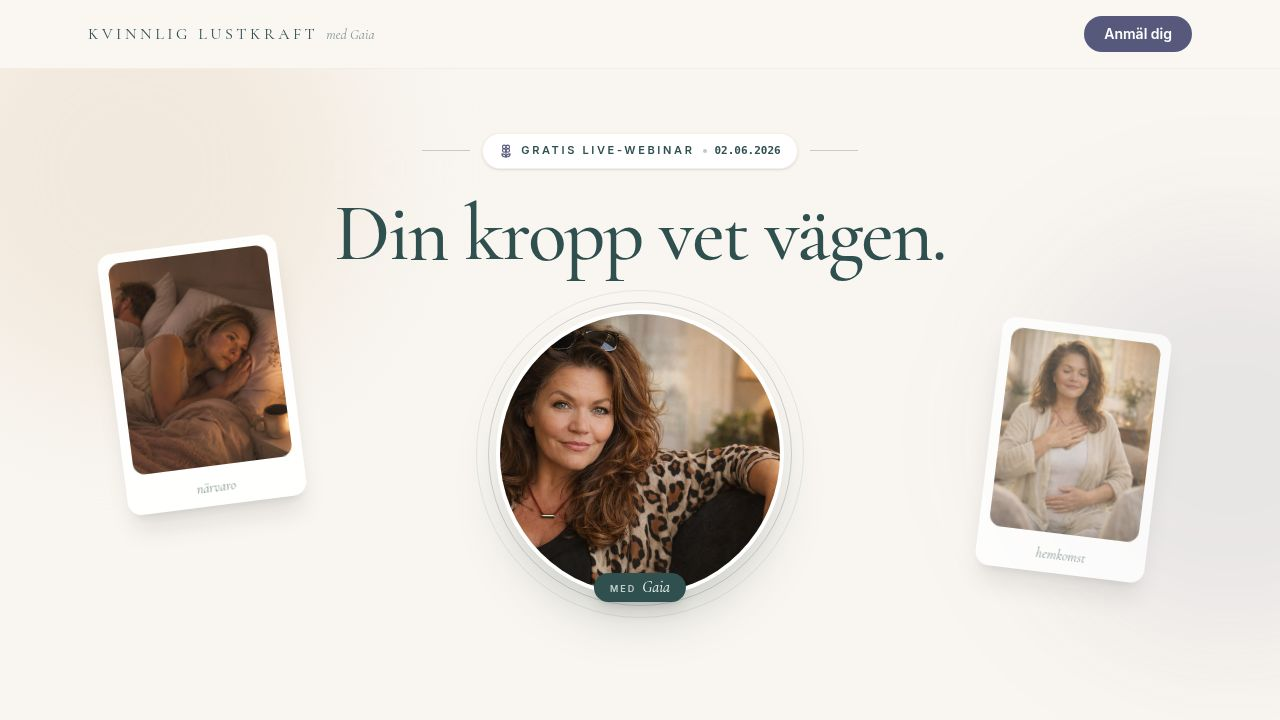
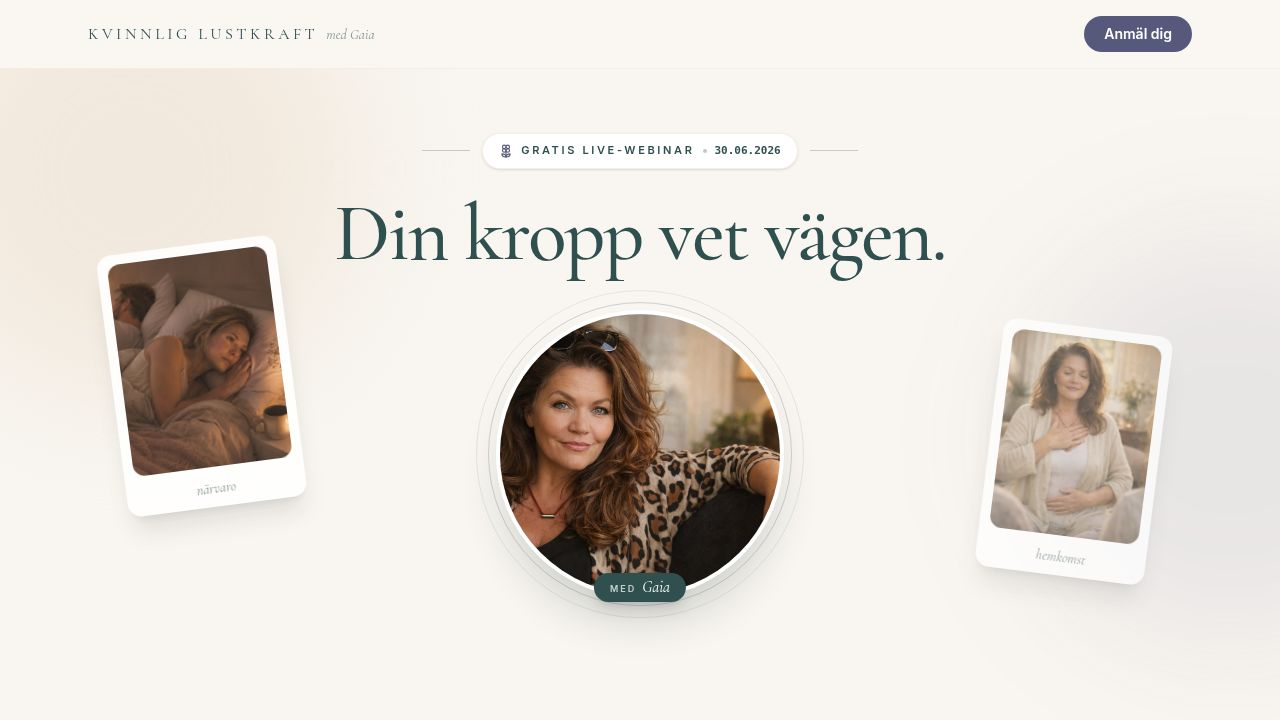
Update webinar schedule to automatically roll over weekly
Implement dynamic date calculations for the webinar schedule, updating invitation emails and email previews to reflect the new automated rollover functionality.

Replit-Commit-Author: Agent
Replit-Commit-Session-Id: 8d92bf58-797e-4079-ab44-be1bf7eed624
Replit-Commit-Checkpoint-Type: full_checkpoint
Replit-Commit-Event-Id: bd925fa5-48f5-4d0c-94e1-175e245414cb
Replit-Commit-Screenshot-Url: https://storage.googleapis.com/screenshot-production-us-central1/c087090e-6721-47c2-9661-25eb5fb39205/8d92bf58-797e-4079-ab44-be1bf7eed624/dVmLftI
Replit-Helium-Checkpoint-Created: true

diff --git a/artifacts/kvinnlig-lustkraft/src/lib/webinar.ts b/artifacts/kvinnlig-lustkraft/src/lib/webinar.ts
@@ -1,5 +1,118 @@
-export const WEBINAR_DATE = "tisdag 23 juni 2026";
-export const WEBINAR_DATE_SHORT = "23.06.2026";
+// ─────────────────────────────────────────────────────────────────────────────
+// Webinar schedule
+//
+// The webinar runs every Tuesday at 18:00 (Europe/Stockholm). The site shows the
+// next upcoming session and AUTOMATICALLY advances one week once the current one
+// has ended — e.g. 30 juni → 7 juli → 14 juli → … — without any code change.
+// The Zoom link stays the same across all sessions.
+//
+// `WEBINAR_FIRST` is the anchor (first session of the current cycle). Everything
+// else (date strings, calendar/ICS links, replay deadline, drip schedule) is
+// derived from the computed start time, so changing the anchor is all it takes.
+// ─────────────────────────────────────────────────────────────────────────────
+
+const STOCKHOLM_TZ = "Europe/Stockholm";
+const WEEK_MS = 7 * 24 * 60 * 60 * 1000;
+const WEBINAR_DURATION_MS = 90 * 60 * 1000; // 18:00 → 19:30
+
+// Anchor: first session of the current cycle (Tuesday). The schedule rolls
+// forward weekly from here.
+const WEBINAR_FIRST = { year: 2026, month: 6, day: 30 }; // 30 juni 2026
+
+const SWEDISH_MONTHS = [
+  "januari", "februari", "mars", "april", "maj", "juni",
+  "juli", "augusti", "september", "oktober", "november", "december",
+];
+
+function pad(n: number): string {
+  return String(n).padStart(2, "0");
+}
+
+// Offset (ms) of Europe/Stockholm at a given instant — handles CEST/CET (DST).
+function stockholmOffsetMs(date: Date): number {
+  const dtf = new Intl.DateTimeFormat("en-US", {
+    timeZone: STOCKHOLM_TZ,
+    year: "numeric", month: "2-digit", day: "2-digit",
+    hour: "2-digit", minute: "2-digit", second: "2-digit",
+    hour12: false,
+  });
+  const map: Record<string, string> = {};
+  for (const p of dtf.formatToParts(date)) map[p.type] = p.value;
+  const asUTC = Date.UTC(
+    +map.year, +map.month - 1, +map.day,
+    +map.hour, +map.minute, +map.second,
+  );
+  return asUTC - date.getTime();
+}
+
+// Wall-clock parts of an instant, expressed in Stockholm local time.
+function stockholmParts(date: Date) {
+  const dtf = new Intl.DateTimeFormat("en-US", {
+    timeZone: STOCKHOLM_TZ,
+    year: "numeric", month: "2-digit", day: "2-digit",
+    hour: "2-digit", minute: "2-digit", second: "2-digit",
+    hour12: false,
+  });
+  const map: Record<string, string> = {};
+  for (const p of dtf.formatToParts(date)) map[p.type] = p.value;
+  return {
+    year: +map.year, month: +map.month, day: +map.day,
+    hour: +map.hour, minute: +map.minute, second: +map.second,
+  };
+}
+
+// Convert a Stockholm wall-clock time (e.g. 18:00 on a given date) to the exact
+// UTC instant, accounting for DST.
+function stockholmWallToUtc(
+  year: number, month: number, day: number, hour: number, minute: number,
+): Date {
+  const guess = Date.UTC(year, month - 1, day, hour, minute, 0);
+  let offset = stockholmOffsetMs(new Date(guess));
+  let utc = guess - offset;
+  offset = stockholmOffsetMs(new Date(utc));
+  utc = guess - offset;
+  return new Date(utc);
+}
+
+// The current (upcoming) webinar start, rolling forward weekly after each ends.
+function computeWebinarStart(now: Date = new Date()): Date {
+  let { year, month, day } = WEBINAR_FIRST;
+  let start = stockholmWallToUtc(year, month, day, 18, 0);
+  while (now.getTime() > start.getTime() + WEBINAR_DURATION_MS) {
+    const next = new Date(Date.UTC(year, month - 1, day) + WEEK_MS);
+    year = next.getUTCFullYear();
+    month = next.getUTCMonth() + 1;
+    day = next.getUTCDate();
+    start = stockholmWallToUtc(year, month, day, 18, 0);
+  }
+  return start;
+}
+
+function toIsoWithOffset(date: Date): string {
+  const p = stockholmParts(date);
+  const offMin = Math.round(stockholmOffsetMs(date) / 60000);
+  const sign = offMin >= 0 ? "+" : "-";
+  const abs = Math.abs(offMin);
+  return (
+    `${p.year}-${pad(p.month)}-${pad(p.day)}` +
+    `T${pad(p.hour)}:${pad(p.minute)}:${pad(p.second)}` +
+    `${sign}${pad(Math.floor(abs / 60))}:${pad(abs % 60)}`
+  );
+}
+
+function toIcsUtc(date: Date): string {
+  return date.toISOString().replace(/[-:]/g, "").replace(/\.\d{3}Z$/, "Z");
+}
+
+// ── Derived schedule values ──────────────────────────────────────────────────
+const WEBINAR_START = computeWebinarStart();
+const WEBINAR_END = new Date(WEBINAR_START.getTime() + WEBINAR_DURATION_MS);
+const _start = stockholmParts(WEBINAR_START);
+
+export const WEBINAR_DATE =
+  `tisdag ${_start.day} ${SWEDISH_MONTHS[_start.month - 1]} ${_start.year}`;
+export const WEBINAR_DATE_SHORT =
+  `${pad(_start.day)}.${pad(_start.month)}.${_start.year}`;
 export const WEBINAR_TIME = "18:00";
 export const WEBINAR_TIMEZONE_LABEL = "svensk tid";
 export const WEBINAR_LOCATION_PUBLIC = "Online – du får länken på mejlen";
@@ -8,13 +121,14 @@ export const WEBINAR_TITLE = "Kvinnlig Lustkraft – Gratis webinar med Gaia";
 export const WEBINAR_DESCRIPTION =
   "Din kropp vet vägen. Återväck din lust och livskraft. Gratis webinar med Gaia Lindroos.";
 
-// 23 June 2026 18:00 Europe/Stockholm (CEST, UTC+2) = 16:00 UTC
-export const WEBINAR_TARGET_ISO = "2026-06-23T18:00:00+02:00";
-export const WEBINAR_ICS_DTSTART_UTC = "20260623T160000Z";
-export const WEBINAR_ICS_DTEND_UTC = "20260623T173000Z";
+export const WEBINAR_TARGET_ISO = toIsoWithOffset(WEBINAR_START);
+export const WEBINAR_ICS_DTSTART_UTC = toIcsUtc(WEBINAR_START);
+export const WEBINAR_ICS_DTEND_UTC = toIcsUtc(WEBINAR_END);
 
-// Replay window: 48h after webinar end (19:30 Stockholm) → closes 25 June 2026 19:30
-export const REPLAY_DEADLINE_ISO = "2026-06-25T19:30:00+02:00";
+// Replay window: 48h after the webinar ends (19:30 Stockholm).
+export const REPLAY_DEADLINE_ISO = toIsoWithOffset(
+  new Date(WEBINAR_END.getTime() + 48 * 60 * 60 * 1000),
+);
 // Optional: embed URL for the recording (YouTube / Vimeo). Leave empty for placeholder.
 export const REPLAY_EMBED_URL =
   "https://player.vimeo.com/video/1199014437?badge=0&autopause=0&player_id=0&app_id=58479";
@@ -22,11 +136,11 @@ export const REPLAY_EMBED_URL =
 // GHL / FastPayDirect checkout link for "Kvinnlig Lustkraft" course
 export const PAYMENT_LINK = "https://link.fastpaydirect.com/payment-link/6a0498ff8c3f15f97515aee0";
 
-// Webinar Zoom link (matches the link sent in confirmation emails)
+// Webinar Zoom link (matches the link sent in confirmation emails) — same across all sessions.
 export const WEBINAR_ZOOM_LINK = "https://zoom.us/j/94430244908";
-// Add-to-calendar link — Google Calendar event prefilled with the Zoom link (same as in emails)
+// Add-to-calendar link — Google Calendar event prefilled with the Zoom link (same as in emails).
 export const WEBINAR_CALENDAR_LINK =
-  "https://calendar.google.com/calendar/render?action=TEMPLATE&text=Kvinnlig+Lustkraft+%E2%80%93+Gratis+webinar+med+Gaia&dates=20260623T160000Z/20260623T173000Z&details=Anslut+via+Zoom%3A+https%3A%2F%2Fzoom.us%2Fj%2F94430244908&location=https%3A%2F%2Fzoom.us%2Fj%2F94430244908";
+  `https://calendar.google.com/calendar/render?action=TEMPLATE&text=Kvinnlig+Lustkraft+%E2%80%93+Gratis+webinar+med+Gaia&dates=${WEBINAR_ICS_DTSTART_UTC}/${WEBINAR_ICS_DTEND_UTC}&details=Anslut+via+Zoom%3A+https%3A%2F%2Fzoom.us%2Fj%2F94430244908&location=https%3A%2F%2Fzoom.us%2Fj%2F94430244908`;
 
 // Course access — where buyers go to start Module 1 after purchase
 export const COURSE_LOGIN_LINK = "https://members.innershift.se";
@@ -34,11 +148,11 @@ export const SUPPORT_EMAIL = "hej@innershift.se";
 
 // --- "Din resa fram till webbinariet": drip-unlock schedule for the nurture pages ---
 // Each page unlocks at 00:00 Stockholm on its "D-N" day, derived from the webinar date
-// so the schedule stays correct if the webinar is moved.
+// so the schedule stays correct as the webinar auto-advances.
 export type JourneyKey = "podcast" | "video" | "blogg" | "testimonial";
 
 function journeyUnlockIso(daysBefore: number): string {
-  const datePart = WEBINAR_TARGET_ISO.slice(0, 10); // e.g. "2026-06-23"
+  const datePart = WEBINAR_TARGET_ISO.slice(0, 10); // e.g. "2026-06-30"
   const base = new Date(`${datePart}T00:00:00Z`);
   base.setUTCDate(base.getUTCDate() - daysBefore);
   const y = base.getUTCFullYear();
@@ -59,11 +173,6 @@ export const JOURNEY_UNLOCK_ISO: Record<JourneyKey, string> = {
 export function isJourneyUnlocked(_key: JourneyKey, _now: Date = new Date()): boolean {
   return true;
 }
-
-const SWEDISH_MONTHS = [
-  "januari", "februari", "mars", "april", "maj", "juni",
-  "juli", "augusti", "september", "oktober", "november", "december",
-];
 
 // "18 juni" — parsed straight from the ISO date part so it shows the Stockholm
 // calendar day regardless of the viewer's own timezone.

diff --git a/artifacts/kvinnlig-lustkraft/src/lib/emails/shell.ts b/artifacts/kvinnlig-lustkraft/src/lib/emails/shell.ts
@@ -1,3 +1,5 @@
+import { WEBINAR_DATE, WEBINAR_CALENDAR_LINK } from "@/lib/webinar";
+
 export type EmailBlock = string;
 
 export const C = {
@@ -14,13 +16,12 @@ export const C = {
 };
 
 export const SAMPLE_VALUES: Record<string, string> = {
-  date_of_the_webinar: "tisdag 23 juni 2026",
+  date_of_the_webinar: WEBINAR_DATE,
   name_of_the_business: "send.innershift.se",
   recording_page_link: "https://innershift.se/inspelning-av-webbinariet",
   sale_page_link: "https://innershift.se/kvinnlig-lustkraft",
   time_of_the_webinar: "18.00",
-  webinar_add_to_calendar_link:
-    "https://calendar.google.com/calendar/render?action=TEMPLATE&text=Kvinnlig+Lustkraft+%E2%80%93+Gratis+webinar+med+Gaia&dates=20260623T160000Z/20260623T173000Z&details=Anslut+via+Zoom%3A+https%3A%2F%2Fzoom.us%2Fj%2F94430244908&location=https%3A%2F%2Fzoom.us%2Fj%2F94430244908",
+  webinar_add_to_calendar_link: WEBINAR_CALENDAR_LINK,
   webinar_zoom_link: "https://zoom.us/j/94430244908",
   webinar_registration_link: "https://innershift.se/gratis-webbinarium",
   // Join-länk i påminnelsesekvensen efter anmälan (Zoom-rummet)

diff --git a/.agents/memory/webinar-schedule-rollover.md b/.agents/memory/webinar-schedule-rollover.md
@@ -1,0 +1,27 @@
+---
+name: Webinar schedule auto-rollover
+description: How the weekly webinar date is computed and the GHL email caveat
+---
+
+# Webinar schedule auto-rollover
+
+The public site's webinar date is NOT hardcoded — it auto-computes the next
+weekly Tuesday 18:00 Europe/Stockholm session and rolls forward one week
+automatically once the current session has ended. Everything date-dependent
+(date strings, Google-Calendar/ICS links, replay deadline, drip-unlock schedule)
+is derived from that computed start. The Zoom link, payment link, and course
+login link are constant across all sessions.
+
+To change the schedule, edit only the `WEBINAR_FIRST` anchor in
+`artifacts/kvinnlig-lustkraft/src/lib/webinar.ts`. DST is handled via
+`Intl.DateTimeFormat` (CEST→16:00Z, CET→17:00Z for 18:00 local).
+
+**Why:** Gaia runs the webinar weekly; manually editing every date link each week
+was error-prone. Rollover happens on page load (static SPA), so a refresh after a
+session shows the next one.
+
+**How to apply / CRITICAL caveat:** Production emails are GHL-managed via
+`{{custom_values.date_of_the_webinar}}` and `webinar_add_to_calendar_link`. The
+codebase CANNOT auto-advance those — the user must update the GHL custom values
+each week. The `shell.ts` SAMPLE_VALUES only drive the local `/emails` preview,
+not the emails GHL actually sends.

diff --git a/artifacts/kvinnlig-lustkraft/src/lib/emails/invitations/inv-all-plaintext.md b/artifacts/kvinnlig-lustkraft/src/lib/emails/invitations/inv-all-plaintext.md
@@ -1,7 +1,7 @@
 # Inbjudningssekvens – plain text (5 mejl)
 
 Webbinarium: Kvinnlig Lustkraft med Gaia Lindroos
-Datum: tisdag 23 juni 2026, kl 18:00 svensk tid
+Datum: tisdag 30 juni 2026, kl 18:00 svensk tid
 
 OBS: Zoom-länken skickas i bekräftelsemejlet direkt efter anmälan
 — därför nämns den inte här. Alla CTA leder till anmälningssidan.
@@ -10,8 +10,8 @@ Sändschema:
 - Mejl 1 — tors 28 maj, 19:00
 - Mejl 2 — fre 29 maj, 09:00
 - Mejl 3 — fre 29 maj, 18:00
-- Mejl 4 — tis 23 juni, 10:00 (webinardagen)
-- Mejl 5 — tis 23 juni, 15:00 (3 tim före start)
+- Mejl 4 — tis 30 juni, 10:00 (webinardagen)
+- Mejl 5 — tis 30 juni, 15:00 (3 tim före start)
 
 ================================================================
 MEJL 1 — tors 28/5 kl 19:00 · Värdeöppning

diff --git a/.agents/memory/MEMORY.md b/.agents/memory/MEMORY.md
@@ -1,3 +1,4 @@
 - [CSS grid aspect-ratio collapse](css-grid-aspect-ratio-collapse.md) — iframe/video embed renders blank in a grid `auto` track; use a definite column width.
 - [Webinar registration attribution](webinar-registration-attribution.md) — DB `source='webinar'` is cumulative across all webinars; use GHL date tags + email cross-ref to count one webinar's ad source.
 - [Meta CAPI test_event_code](meta-capi-test-event-code.md) — global test_event_code secret leaked to prod → events stuck in Test Events tab, not attributed to ads; gate on NODE_ENV.
+- [Webinar schedule auto-rollover](webinar-schedule-rollover.md) — date auto-computes weekly Tue 18:00 Stockholm; GHL prod emails need manual weekly updates.
